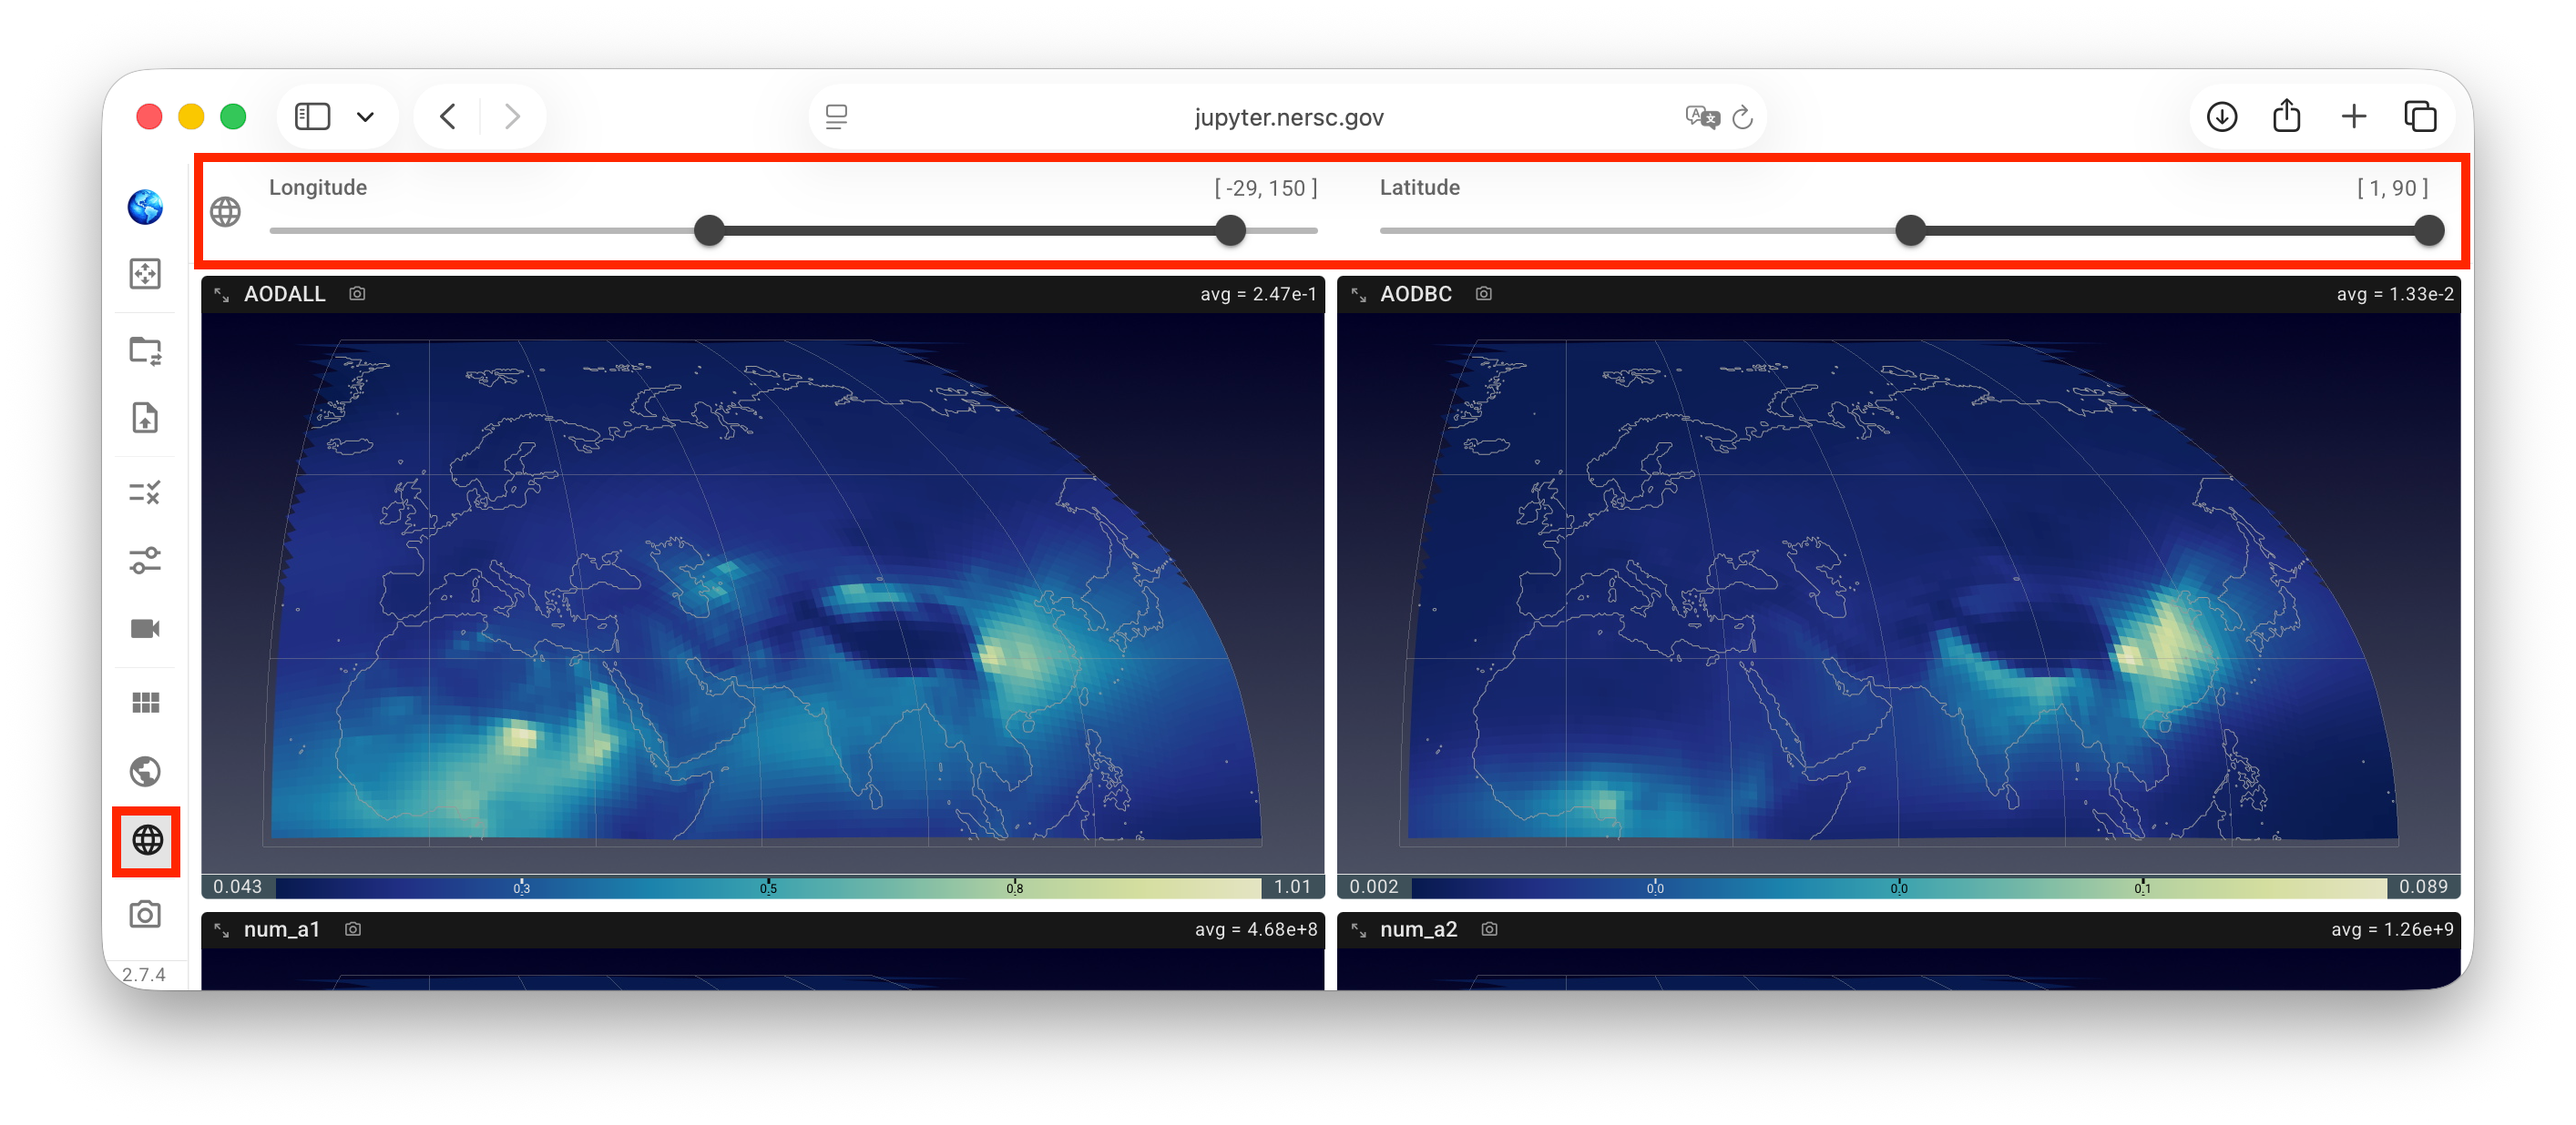
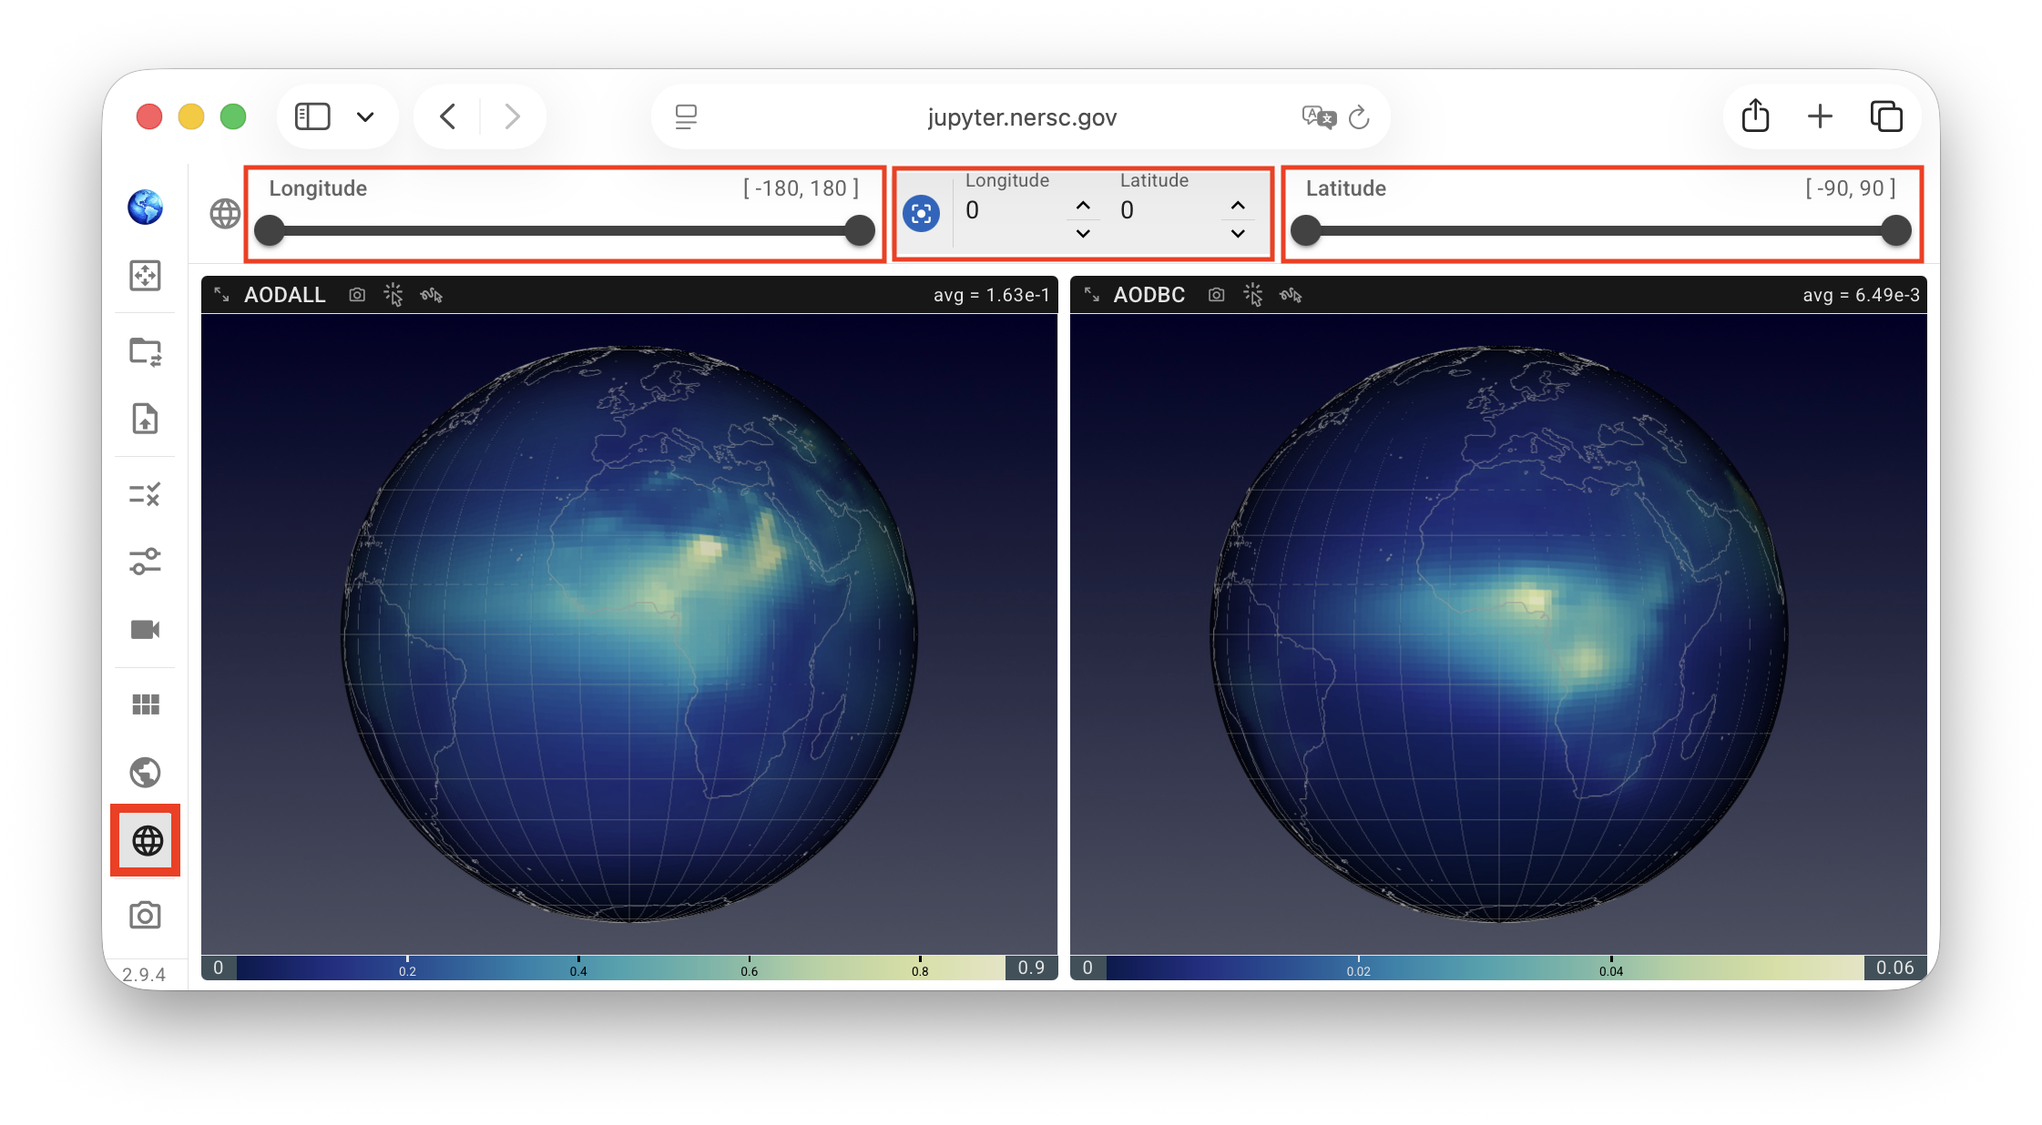
docs(quickview): reorg and update pages on map related features

diff --git a/src/e3sm_quickview/components/doc.py b/src/e3sm_quickview/components/doc.py
@@ -312,6 +312,9 @@ class LandingPage(v3.VContainer):
                         with v3.VListItem(subtitle="Mollweide"):
                             with v3.Template(v_slot_append="True"):
                                 v3.VHotkey(keys="m", variant="contained", inline=True)
+                        with v3.VListItem(subtitle="Spherical"):
+                            with v3.Template(v_slot_append="True"):
+                                v3.VHotkey(keys="z", variant="contained", inline=True)
 
                     v3.VDivider(classes="my-4")
 

diff --git a/src/e3sm_quickview/components/tools.py b/src/e3sm_quickview/components/tools.py
@@ -248,7 +248,7 @@ class MapProjection(v3.VTooltip):
                                             classes="ml-4 mn-2",
                                         )
                             v3.VDivider()
-                            with v3.VListItem(title="Grid spacing"):
+                            with v3.VListItem(title="Lat-lon grid line spacing"):
                                 with v3.VBtnToggle(
                                     v_model=("grid_interval", 30),
                                     border=True,

diff --git a/docs/guides/quickview/saving_images.md b/docs/guides/quickview/saving_images.md
@@ -1,0 +1,41 @@
+# Saving Images {#save-vis}
+
+In addition to [saving the state](/guides/quickview/file_selection#state-files)
+of the current session so that the analysis can be resumed later,
+QuickView provides three ways for the user to save the visualization as images
+or animations for presentations and manuscripts, etc.:
+
+![image download](./screenshots/image_download.png){ width="30%", align=right }
+
+- A click on the **camera icon** at the end of the vertical **toolbar** saves the entire
+  viewport—in its current layout—to the local computer as `Viewport.png`.
+
+- A click on the **camera icon** next to the variable name **inside a view panel**
+  saves that single view as a `.png` file. The file name starts with the variable name;
+  dimension names and indices are appended when relevant.
+  For example, `aero_tau_sw-lev-71-swband-00.png` is an image of variable `aero_tau_sw`
+  at `lev` index 71 and `swband` index 0.
+
+- Let us assume the user has been inspecting 4 variables along the `lev` dimension,
+  as depicted by the screenshot here. To export animations showing how these variables
+  change in that dimension, the user can click on the icon on the right end of the
+  animation control panel, i.e., the downward arrow with two lines,
+  to bring up a drop-down menu and then click to select
+  `Viewport` and/or individual variables. Subsequently, a click on `Export animation`
+  triggers QuickView to scan through the indices in the `lev` dimension,
+  with a dark-red circle spinning around the download button while the scan is in progress.
+  After the scan is finished, a file `quickview-animation.zip` gets downloaded to the local computer.
+  This file is a zipped folder that may contain multiple files.
+
+![animation download](./screenshots/animation_download.png){ width="90%" }
+
+Note: as of version 2.6.1, the animation export downloads
+images of individual frames to the local computer, and the user needs to use a tool to combine
+the images into an animation (or animations).
+Direct download of animation files will be provided soon.
+
+![animation in progress](./screenshots/animation_scan_in_progress.png){ width="10%", align=right }
+
+If the user clicks the animation download button again while the dark-red circle is still
+spinning, the click will end the scan. A `.zip` file will still be downloaded and
+will contain images from index 0 to the last index that QuickView has scanned.

diff --git a/docs/guides/quickview/cursor_probe.md b/docs/guides/quickview/cursor_probe.md
@@ -1,0 +1,28 @@
+# The Cursor Probe in QuickView {#cursor-probe}
+
+Starting in version 2.8.3, QuickView provides a Cursor Probe for inspecting data values at the cursor location. Two modes are available:
+
+| Icon | Mode | Description |
+|------|------|-------------|
+| <img src="https://cdn.jsdelivr.net/npm/@mdi/svg/svg/cursor-default-gesture-outline.svg" width="24"> | Hover Mode | Updates continuously as the cursor moves over contour plots in the viewport. |
+| <img src="https://cdn.jsdelivr.net/npm/@mdi/svg/svg/cursor-default-click-outline.svg" width="24"> | Click Mode | Updates only when the user clicks a location in a contour plot. This mode may provide better responsiveness when working with very large datasets. |
+
+![cursor probe information panel](./screenshots/cursor_probe_information_panel.png){ width="30%", align=right }
+
+In both modes, information associated with the cursor location is displayed in
+an **Information Panel**, as shown in the screenshot here.
+The latitude and longitude of the cursor location are shown at the top,
+followed by the name and value of the variable in the current view, as well as
+the names and values of the other variables displayed in the viewport.
+If a variable has non-horizontal dimensions, the value shown in the Information Panel
+is the value at the cursor-selected lat-lon location in the currently data slice. 
+
+![cursor probe icons](./screenshots/cursor_probe_icons_in_viewport.png){ width="50%", align=right }
+
+The Cursor Probe is inactive by default and can be activated by clicking either the
+Hover Mode or Click Mode icon in any viewport panel.
+These icons are available in all views for convenient access.
+However, the probe's activate/inactive state applies to the entire viewport
+and is shared across all views. As a result, the Cursor Probe cannot be enabled
+for some views (variables) while remaining disabled for others.
+

diff --git a/docs/webnews.md b/docs/webnews.md
@@ -9,7 +9,7 @@ and [across an ensemble of more simulations](/guides/quickcompare/multi-sim_comp
 
 ![QuickView icon](/public/logos/quickview-icon-only.png){ width="8%", align=right }
 
-2026-06-25: QuickView version 2.8.4 was released, providing a [cursor probe](/guides/quickview/miscellaneous#cursor-probe) for inspecting data values at selected locations in the visualization.
+2026-06-25: QuickView version 2.8.4 was released, providing a [cursor probe](/guides/quickview/cursor_probe) for inspecting data values at selected locations in the visualization.
 
 ![QuickView icon](/public/logos/quickview-icon-only.png){ width="8%", align=right }
 
@@ -27,7 +27,7 @@ and [across an ensemble of more simulations](/guides/quickcompare/multi-sim_comp
 
 ![QuickView icon](/public/logos/quickview-icon-only.png){ width="8%", align=right }
 
-2026-04-28: QuickView version 2.6.1 was released, providing long-desired features like [image download](/guides/quickview/miscellaneous#save-vis), [symmetric logarithmic scale](/guides/quickview/individual_views#linear-and-log-scales) for colorbars, generalized support for [arbitrarily dimensioned arrays](/guides/simulation_data#nd-vars), and substantially improved performance for [SCREAM output](/gallery/index#scream).
+2026-04-28: QuickView version 2.6.1 was released, providing long-desired features like [image download](/guides/quickview/saving_images), [symmetric logarithmic scale](/guides/quickview/individual_views#linear-and-log-scales) for colorbars, generalized support for [arbitrarily dimensioned arrays](/guides/simulation_data#nd-vars), and substantially improved performance for [SCREAM output](/gallery/index#scream).
 
 
 ## March 2026

diff --git a/docs/guides/quickview/map_related.md b/docs/guides/quickview/map_related.md
@@ -1,0 +1,24 @@
+
+# Map-Related Features
+
+## Map projection {#map-projections}
+
+![Map projections and latitude–longitude grid-line spacing](./screenshots/map_projections_and_grid_line_spacing.png){ width="60%", align=right }
+
+The map projection used for the contour plots can be changed through the mini-menu opened by clicking the Earth icon in the vertical toolbar. The projection can also be selected using the following keyboard shortcuts:
+
+- `C`: cylindrical equidistant;
+- `R`: Robinson;
+- `M`: Mollweide;
+- `N`: spherical.
+
+The bottom section of the same mini-menu allows the user to adjust the spacing of the latitude–longitude grid lines shown on the map.
+
+## Geographical region {#geographical-region}
+
+The geographical region displayed in the contour plots—defined by its latitude and longitude bounds—can be adjusted using the range sliders in the latitude–longitude cropping panel. The panel is opened by clicking the Earth-grid icon in the vertical toolbar.
+
+A set of text boxes and arrow buttons located between the latitude and longitude range sliders allows the user to specify the geographical location at which the map is centered.
+
+![Latitude and longitude range sliders and map-centering controls](./screenshots/latlon_sliders.png){ width="100%" }
+

diff --git a/docs/guides/quickview/getting_started.md b/docs/guides/quickview/getting_started.md
@@ -20,9 +20,9 @@
   - [Data slice selection](./slice_selection)
   - [Viewport layout options](./viewport_layout)
   - [Customization of individual views](./individual_views)
-  - [Map projections](./miscellaneous#maps)
-  - [Image/animation export](./miscellaneous#save-vis)
-  - [Cursor probe](./miscellaneous#cursor-probe)
+  - [Map-related features](./map_related)
+  - [Image/animation export](./saving_images)
+  - [Cursor probe](./cursor_probe)
 
 - Visit the GitHub [repository](https://github.com/Kitware/QuickView)
 - Report bugs or request features using [GitHub Issues](https://github.com/Kitware/QuickView/issues)

diff --git a/docs/guides/quickview/slice_selection.md b/docs/guides/quickview/slice_selection.md
@@ -35,6 +35,6 @@ a slider and a set of forward and backward buttons for manually stepping through
 as well as a two play/pause toggles for automatically stepping through the selected dimension
 in forward or backward order.
 The rightmost button in the panel, showing a downward arrow above two horizontal lines,
-is for exporting animations and is explained on [a separate page](./miscellaneous#save-vis)
+is for exporting animations and is explained on [a separate page](./saving_images)
 
 ![](./screenshots/animation_control_panel_and_menu.png){ width="100%" }

diff --git a/docs/guides/quickview/viewport_layout.md b/docs/guides/quickview/viewport_layout.md
@@ -66,7 +66,7 @@ and explained in more detail in the subsequent subsections.
 
 A slider is provided for adjusting the aspect ratio of the view frames by changing their heights.
 This can be useful for controlling the blank spaces, especially for
-[regional plots](./miscellaneous#maps).
+[the spherical projection](./map_related#map-projections) and for [regional plots](./map_related#geographical-region).
 
 ![toggles](./screenshots/viewport_aspect_ratio.png){ width="100%", align=center }
 
